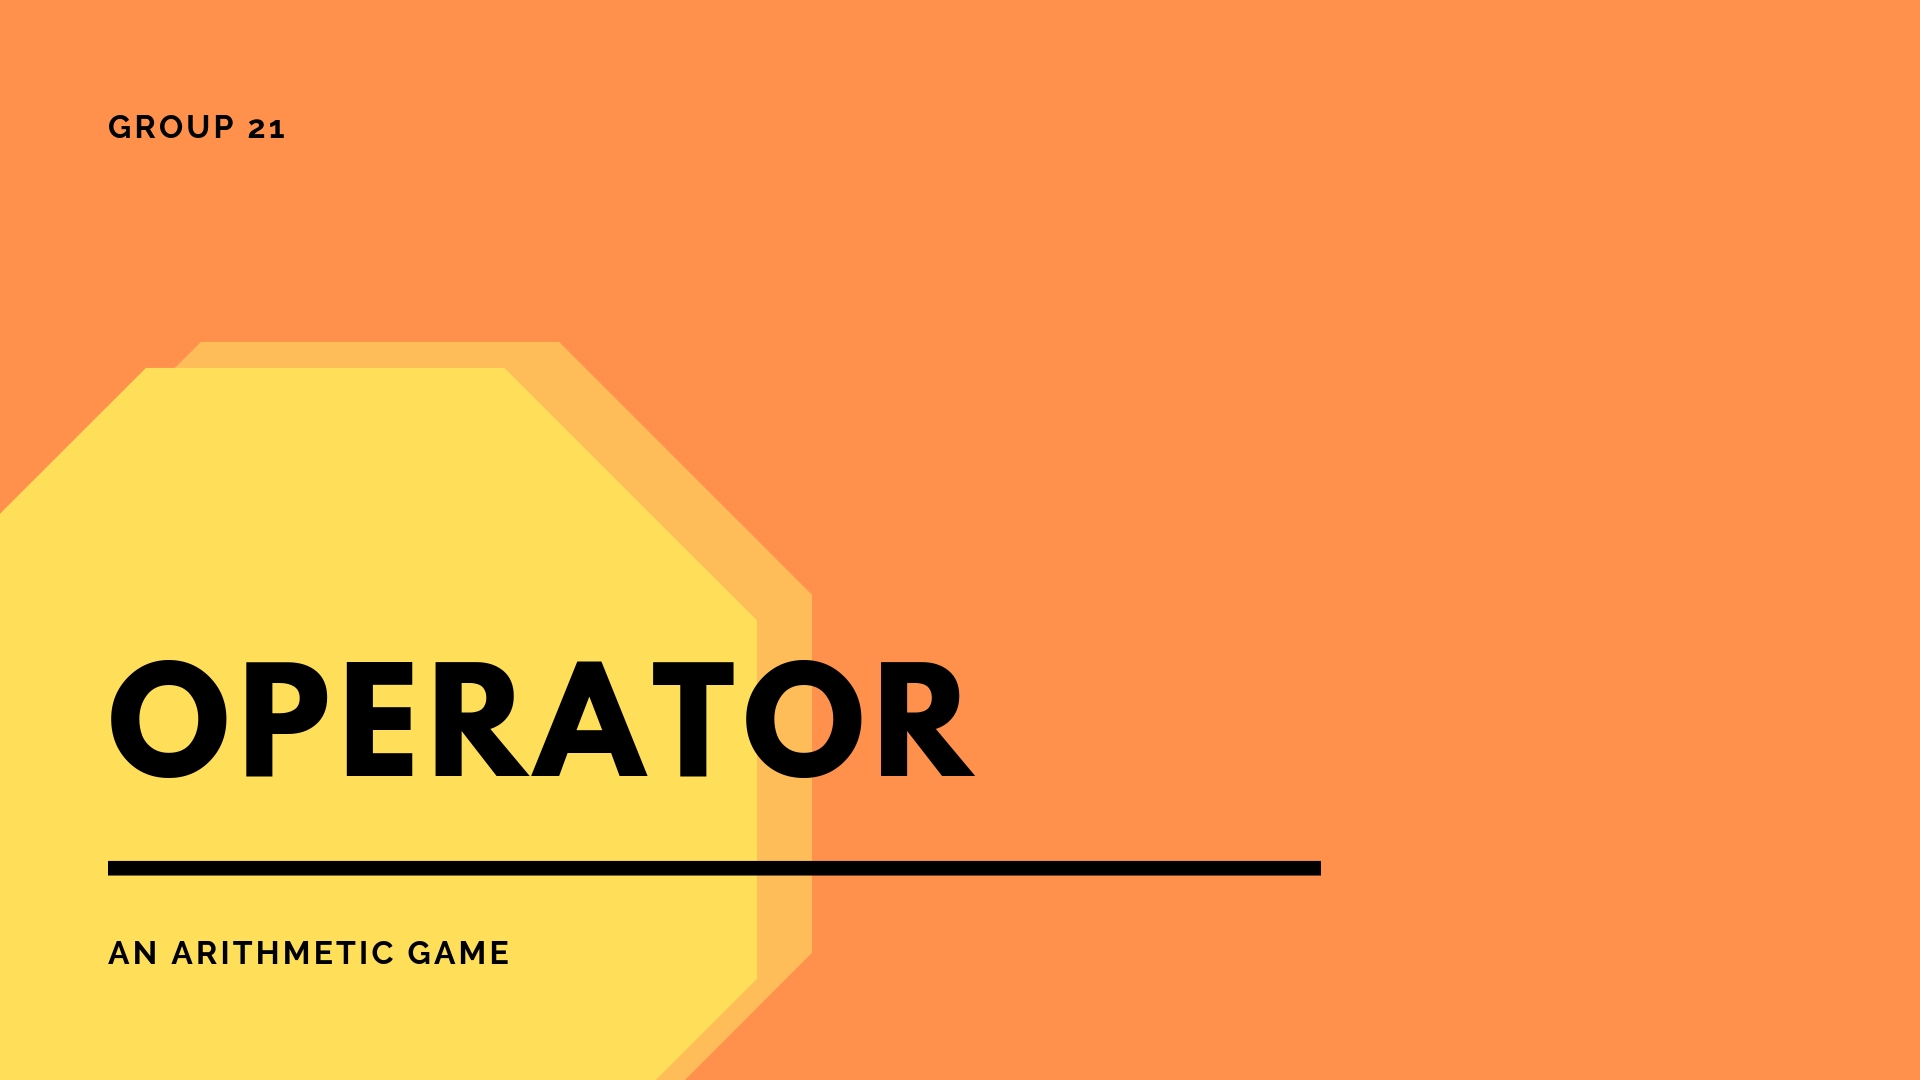
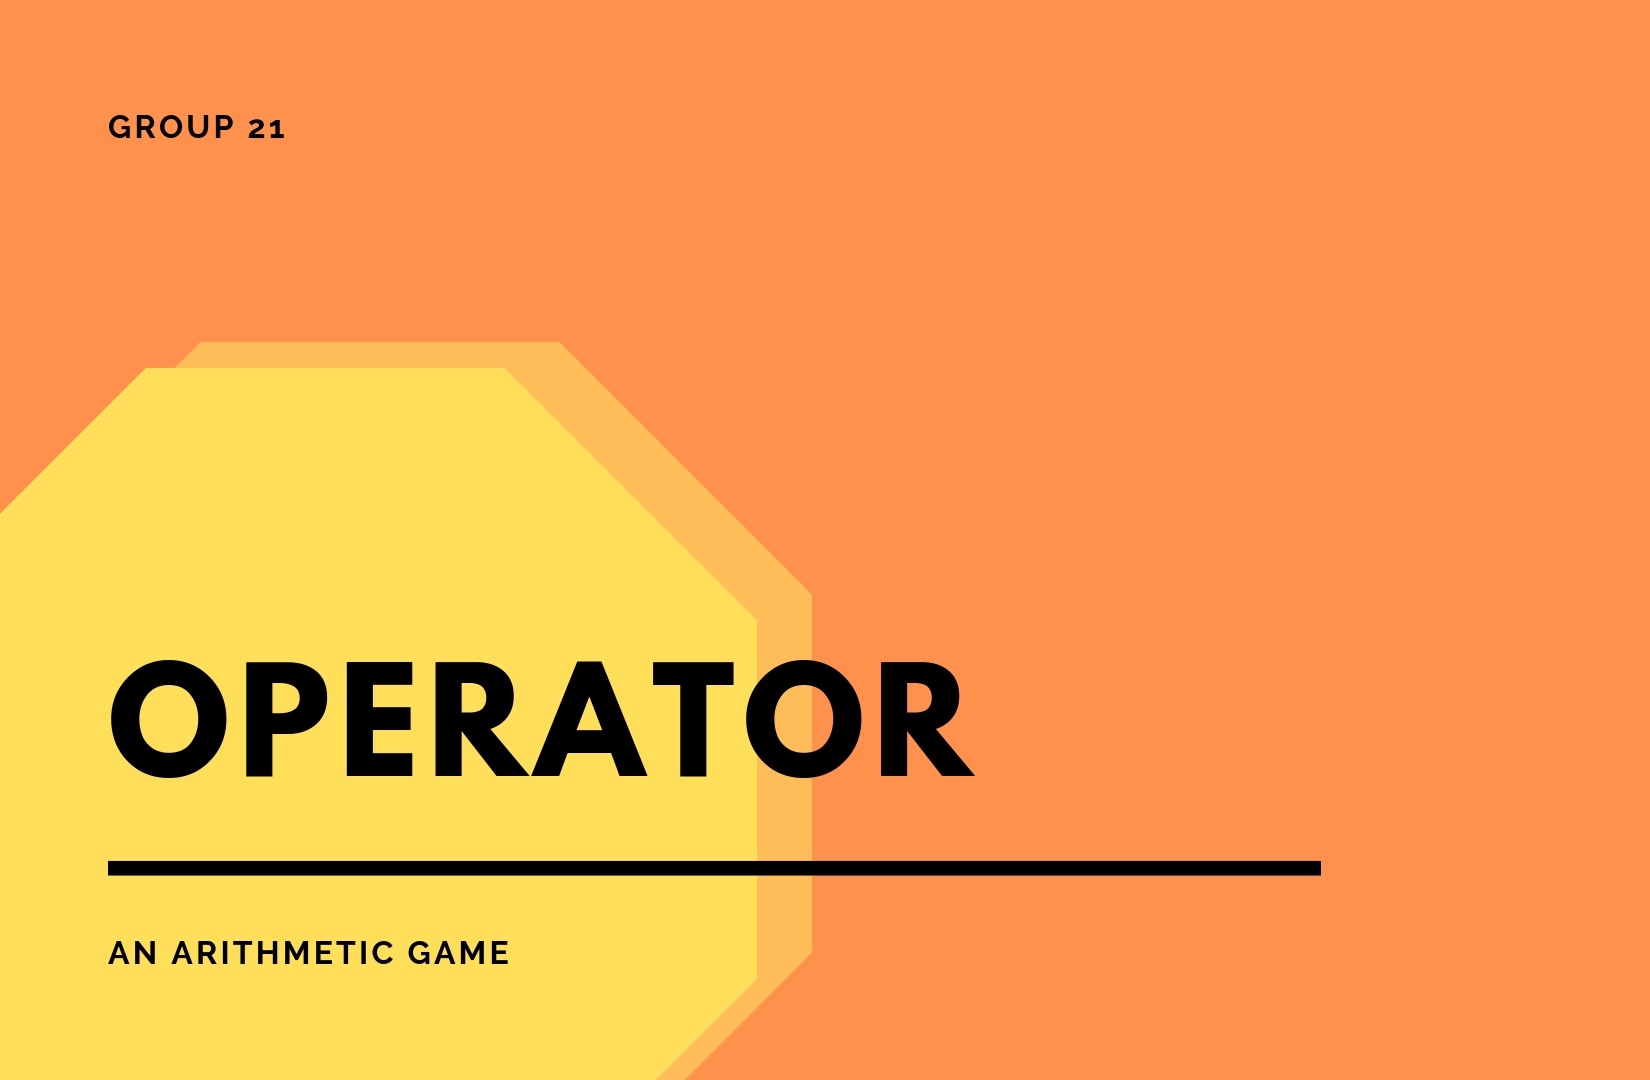
changed picture size to 1650x1080 for better fit on page relative other material. updated HTTP request to remove depreciation warning. created function changeText() to set interval change text on home page.

diff --git a/assets/js/index.js b/assets/js/index.js
@@ -1,19 +1,60 @@
 $(document).ready(function () {
     AOS.init({ duration: 1000 });
     getGithub('headhuntar');
+    setInterval(changeText, 200);
 });
+// record current text index
+var currentTextIndex = 0;
 
 // Get Github last commit of input: username
 let getGithub = (username) => {
-    $.ajax({
-        async: false,
-        type: "GET",
-        url: "https://api.github.com/users/" + username + "/events",
-        dataType: "json",
-        success: function(data) {
-            let lastCommit = new Date(data[0].created_at).toDateString();
+    // depreciated
+    // $.ajax({
+    //     async: false,
+    //     type: "GET",
+    //     url: "https://api.github.com/users/" + username + "/events",
+    //     dataType: "json",
+    //     success: function (data) {
+    //         let lastCommit = new Date(data[0].created_at).toDateString();
+    //         let textElement = document.getElementById("lastCommit");
+    //         textElement.innerText = "Last Commit: " + lastCommit;
+    //     }
+    // });
+    var xhttp = new XMLHttpRequest();
+    xhttp.onreadystatechange = function () {
+        if (this.readyState == 4 && this.status == 200) {
+            let lastCommit = new Date(JSON.parse(this.responseText)[0].created_at).toDateString();
             let textElement = document.getElementById("lastCommit");
             textElement.innerText = "Last Commit: " + lastCommit;
         }
-    });
+    };
+    xhttp.open("GET", "https://api.github.com/users/" + username + "/events", true);
+    xhttp.send();
+}
+
+// manip text on set interval takes input: none
+let changeText = () => {
+    let textElement = document.getElementById("changingText");
+
+    if (++currentTextIndex === 6) {
+        currentTextIndex = 1;
+    }
+
+    switch (currentTextIndex) {
+        case 1:
+            textElement.innerText = "cha";
+            return;
+        case 2:
+            textElement.innerText = "chan";
+            return;
+        case 3:
+            textElement.innerText = "chang";
+            return;
+        case 4:
+            textElement.innerText = "change";
+            return;
+        case 5:
+            textElement.innerText = "changed";
+            return;
+    }
 }

diff --git a/index.html b/index.html
@@ -46,7 +46,7 @@
     <div id="about">
         <div class="landing-text">
             <h1 data-aos="fade-right">Allen Li</h1>
-            <h3 data-aos="fade-right" data-aos-delay="100">Front-End Developer</h3>
+            <h3 id="changingText" data-aos="fade-right" data-aos-delay="100">Front-End Developer</h3>
             <!-- NOT QUITE SURE ABOUT THIS UGLY BUTTON, reskin or remove -->
             <a href="#skills" class="btn btn-default btn-lg">about me</a>
         </div>
